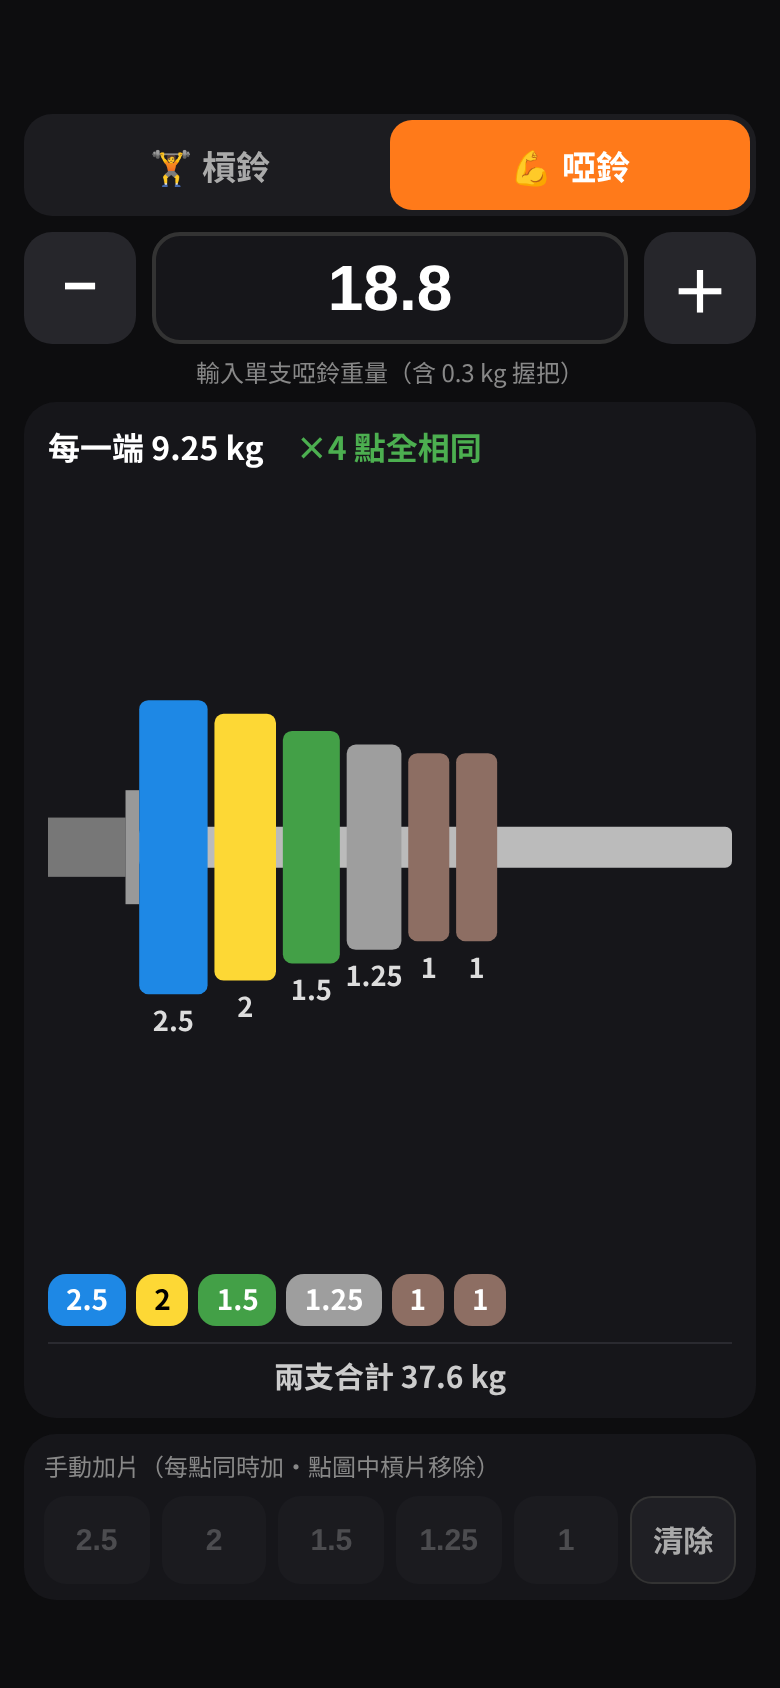
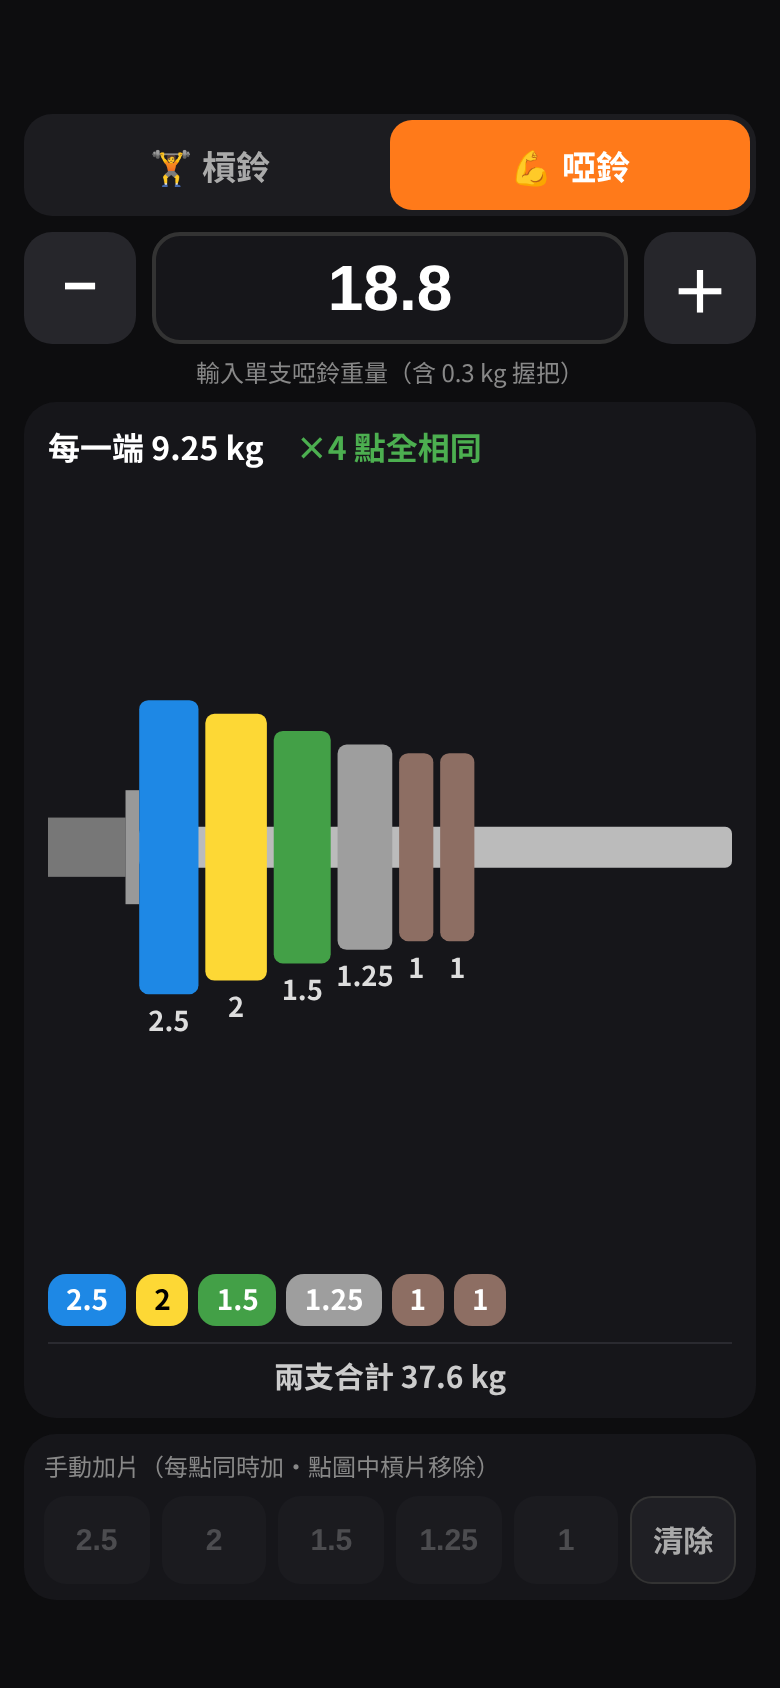
Plate thickness tweak, v18

diff --git a/index.html b/index.html
@@ -42,7 +42,7 @@ svg rect.pl{cursor:pointer}
 <div class="tog"><button id="bb" class="on">🏋 槓鈴</button><button id="db">💪 啞鈴</button></div>
 <div class="in"><button id="mn">−</button><input id="w" inputmode="decimal" value="42"><button id="pl">＋</button></div>
 <div class="hint" id="hint"></div><div class="card" id="out"></div><div class="bld"><div class="lb">手動加片（每點同時加・點圖中槓片移除）</div><div class="pbs" id="pbs"></div></div>
-<script src="data.js?v=17"></script><script>
+<script src="data.js?v=18"></script><script>
 const P=[[1,'#8d6e63','1',.55],[1.25,'#9e9e9e','1.25',.6],[1.5,'#43a047','1.5',.68],[2,'#fdd835','2',.78],[2.5,'#1e88e5','2.5',.86],[5,'#e53935','5',1]];
 let eq='槓鈴';const $=id=>document.getElementById(id),W=$('w');
 const T=x=>+(2*x).toFixed(2),tot=t=>eq==='啞鈴'?`<div class="tot">兩支合計 ${t} kg</div>`:'';
@@ -77,7 +77,7 @@ function clr(){manual=[0,0,0,0,0,0];W.value=wOf(manual);render()}
 function renderManual(){const m=manual;$('out').innerHTML=`<div class="st">每一端 ${+sum(m).toFixed(2)} kg　<span style="color:#4caf50">×4 點全相同</span></div>${svg(m)}<div class="chips">${chips(m)}</div>`+tot(wOf(m)*2/1&&T(wOf(m)))}
 function num(x){const n=parseFloat(String(x).replace(/[，,]/g,'.').replace(/[^0-9.]/g,''));return isNaN(n)?NaN:Math.round(n*20)/20}
 function mini(c){const g=['#fff','#e6e6e6','#cfcfcf','#b5b5b5','#9a9a9a','#7d7d7d'];return '<div class="bl">'+(plates(c).map(p=>{const i=P.indexOf(p);return `<i style="background:${g[i]};${i>=4?'color:#fff':''}">${p[2]}</i>`}).join('')||'<i style="background:#333;color:#888">空</i>')+'</div>'}
-const TH=[12,16,17,18,20,24],TW=[18,24,25,27,30,32];const GR=['#f2f2f2','#d9d9d9','#bdbdbd','#a0a0a0','#808080','#5c5c5c'];
+const TH=[10,16,17,18,17,20],TW=[15,24,25,27,26,28];const GR=['#f2f2f2','#d9d9d9','#bdbdbd','#a0a0a0','#808080','#5c5c5c'];
 function grp(c,x0,dir,cy,H){let x=x0,s='';plates(c).forEach(p=>{const i=P.indexOf(p),w=8+p[0]*1.8,h=H*p[3],X=dir>0?x:x-w;
  s+=`<rect class="pl" onclick="rm(${i})" x="${X}" y="${cy-h/2}" width="${w}" height="${h}" rx="2" fill="${GR[i]}" stroke="#111" stroke-width="1"/><text x="${X+w/2}" y="${cy}" transform="rotate(-90 ${X+w/2} ${cy})" fill="${i>=4?'#fff':'#111'}" font-size="${Math.min(11,w-1)}" font-weight="800" text-anchor="middle" dominant-baseline="central">${p[2]}</text>`;x+=dir*(w+2)});return [s,Math.abs(x-x0)]}
 function hshape(groups,cy,H,mid,lab){/* groups: [leftInner,leftOuter?] [rightInner,rightOuter?] */

diff --git a/sw.js b/sw.js
@@ -1,4 +1,4 @@
-const C='plates-v17',F=['./','index.html','data.js?v=17','manifest.json','icon-v8-180.png','apple-touch-icon.png','icon-192.png','icon-v8-512.png'];
+const C='plates-v18',F=['./','index.html','data.js?v=18','manifest.json','icon-v8-180.png','apple-touch-icon.png','icon-192.png','icon-v8-512.png'];
 self.addEventListener('install',e=>{self.skipWaiting();e.waitUntil(caches.open(C).then(c=>c.addAll(F)))});
 self.addEventListener('activate',e=>e.waitUntil(caches.keys().then(ks=>Promise.all(ks.filter(k=>k!==C).map(k=>caches.delete(k)))).then(()=>self.clients.claim())));
 self.addEventListener('fetch',e=>{const u=new URL(e.request.url);if(e.request.method!=='GET'||u.origin!==location.origin)return;
